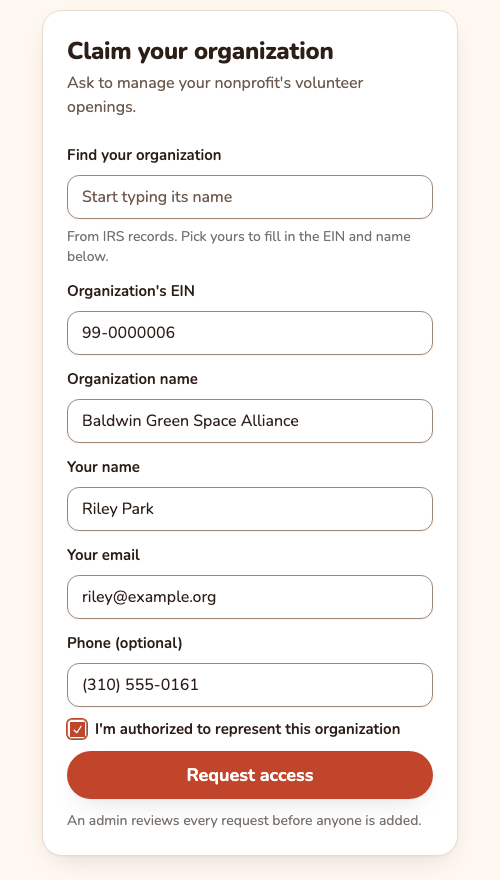
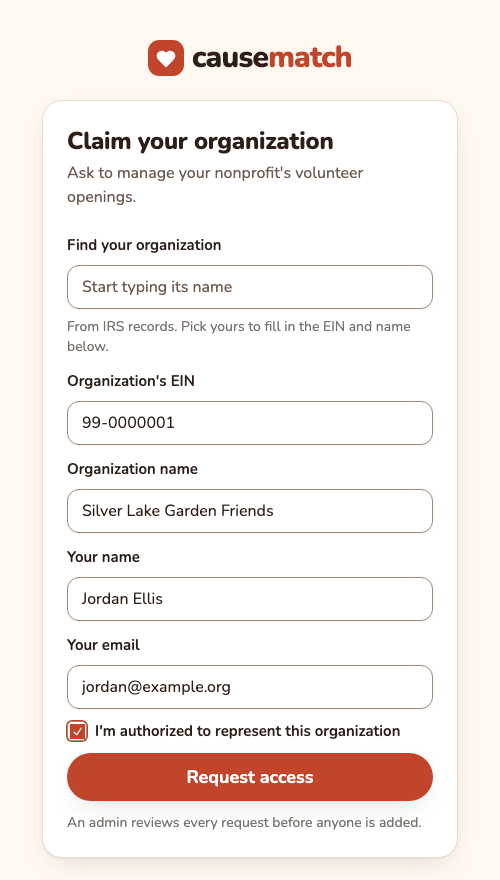
Docs: screenshots follow the pages after the UX pass
The admin guide's claim form, claims list, nonprofit sign-in and sign-in confirm
images, and the README hero, are retaken from the demo. The claim form and claims
list no longer show a phone field or number, the confirm page has its new wording,
the hero deck shows Filters and the last-minute label. scripts/screenshots.py drops
the demo's fake SMS so its shots say "email", as production does.

diff --git a/scripts/screenshots.py b/scripts/screenshots.py
@@ -10,6 +10,7 @@ chromium (uv run playwright install chromium).
 """
 
 import argparse
+import os
 import re
 import sys
 import threading
@@ -91,6 +92,10 @@ def main():
         )
     a.out.mkdir(parents=True, exist_ok=True)
     demo.configure(a.port, seed_file=a.seed_file)
+    # production has no Twilio, so its pages say "email", never "text" or a number; the
+    # demo's fake SMS would make the pages speak of texts (notify.texts_on)
+    os.environ.pop("CAUSEMATCH_FAKE_SMS", None)
+    os.environ.pop("CAUSEMATCH_COLLECT_PHONE", None)
     info = demo_seed.seed(a.seed_file)
     server = start_server(a.port)
     url = f"http://127.0.0.1:{a.port}"
